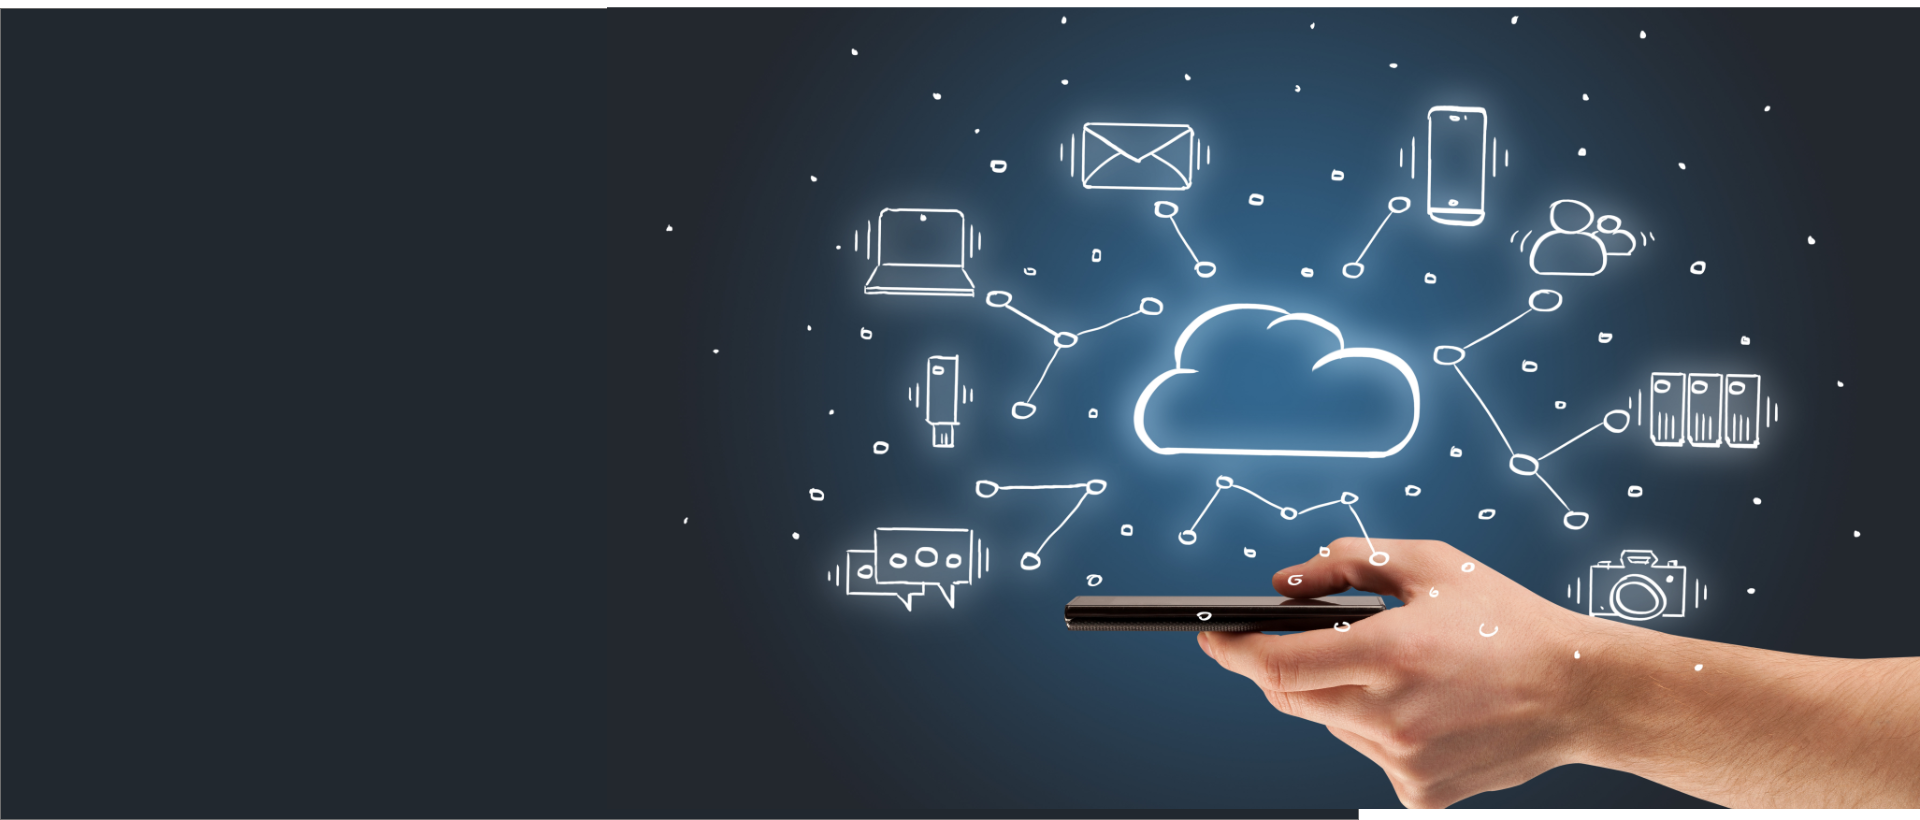
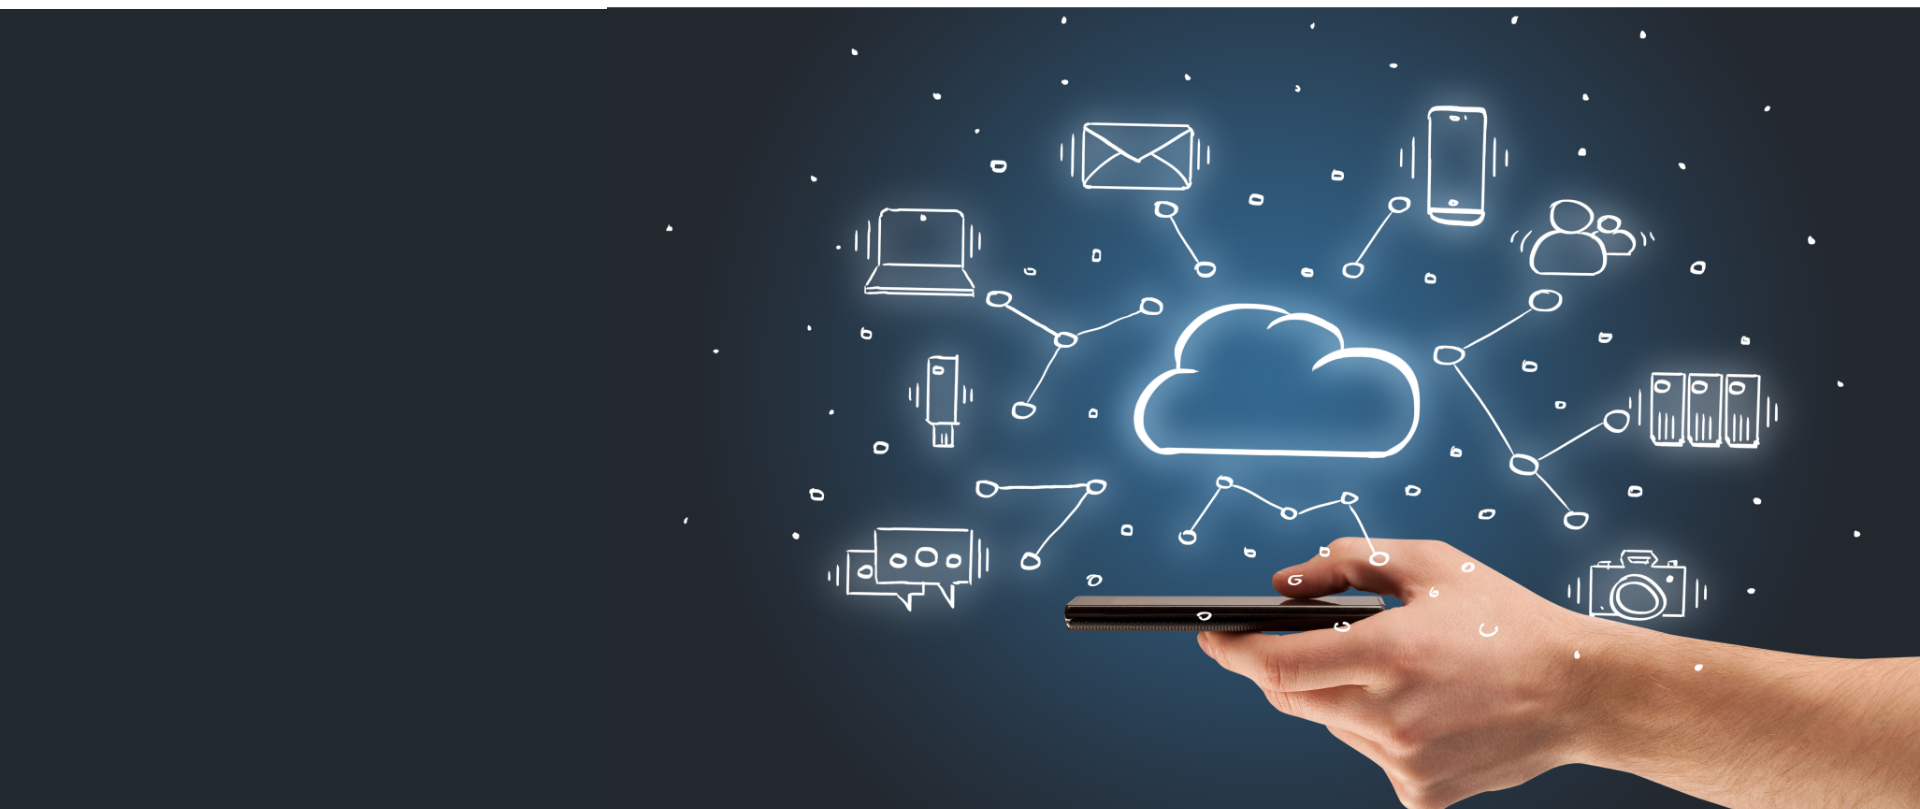
fixed images on about us page

diff --git a/src/app/components/appmodernization/appmodernization.component.html b/src/app/components/appmodernization/appmodernization.component.html
@@ -1,6 +1,6 @@
 <img id="mainpic" style="position: absolute;
-top: 0px;
-left: 0px;width: 1920px;height: 1200px" src="../../../assets/appmoderization.png"  >
+top: 0px;background: #21282f;
+left: 0px;width: 1920px;height: 962px" src="../../../assets/appmoderization.png"  >
 <div 
 class="normal contentwrapper"
 [innerHTML]="html">

diff --git a/src/app/components/aboutus/aboutus.component.css b/src/app/components/aboutus/aboutus.component.css
@@ -37,7 +37,7 @@ height: 618px;
 
     .whyic3{
         top: 2138px;
-        right: 105px;
-        width: 941px;
+        right: 80px;
+        width: 975px;
         height: 600px;
     }
